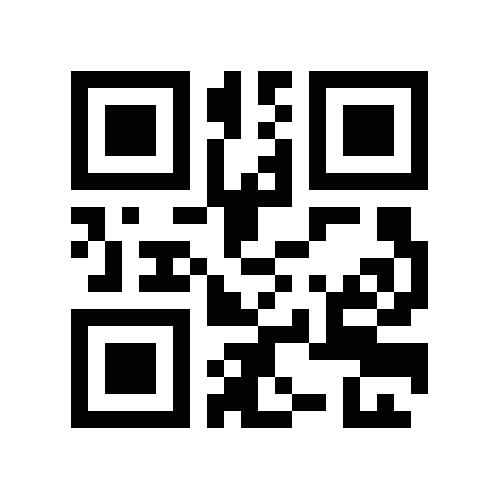
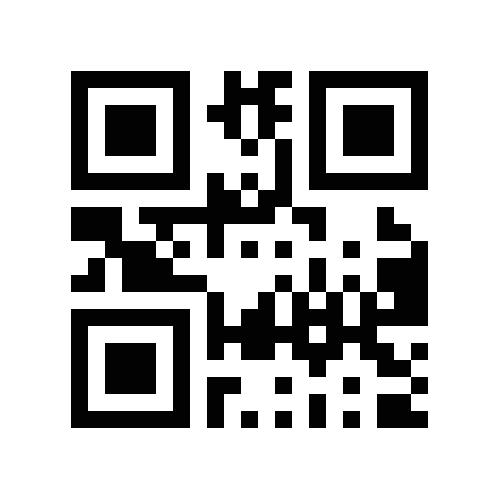
서버시간 스케쥴러 관련

diff --git a/Capstone/src/main/java/DataBase/JDBC_Repository_Server.java b/Capstone/src/main/java/DataBase/JDBC_Repository_Server.java
@@ -1,0 +1,27 @@
+package DataBase;
+
+import java.text.SimpleDateFormat;
+import java.util.Date;
+
+import org.springframework.beans.factory.annotation.Autowired;
+import org.springframework.jdbc.core.JdbcTemplate;
+import org.springframework.stereotype.Repository;
+
+@Repository
+public class JDBC_Repository_Server {
+
+	// 서버관련 쿼리 Repository
+	@Autowired
+	private JdbcTemplate jdbcTemplate;
+	
+	public void update_server_clock() {
+		
+		SimpleDateFormat format1 = new SimpleDateFormat ("yyyy-MM-dd");
+		Date time = new Date();
+		String time_pr = format1.format(time);
+		String sql = "insert into server_time_clock values('" + time_pr + "' , 'A') "
+				+ "ON DUPLICATE KEY UPDATE Today = '"+ time_pr + "'"; 
+		jdbcTemplate.execute(sql);
+		
+	}
+}

diff --git a/Capstone/src/main/java/Scheduler/Server_Time_Clock.java b/Capstone/src/main/java/Scheduler/Server_Time_Clock.java
@@ -1,0 +1,23 @@
+package Scheduler;
+
+import org.springframework.beans.factory.annotation.Autowired;
+import org.springframework.scheduling.annotation.EnableScheduling;
+import org.springframework.scheduling.annotation.Scheduled;
+import org.springframework.stereotype.Component;
+
+import DataBase.JDBC_Repository_Server;
+
+@EnableScheduling
+@Component
+public class Server_Time_Clock {
+
+	@Autowired
+	private JDBC_Repository_Server db_rep;
+	
+	@Scheduled(cron = "0 20 0 * * *")
+	public void autoUpdate() {
+		//매일 00:00:00에 호출
+		db_rep.update_server_clock();
+		System.out.println("서버 시간이 업데이트 되었습니다.\n");
+	}
+}

diff --git a/Capstone/src/main/java/Controllers/Main_Controller.java b/Capstone/src/main/java/Controllers/Main_Controller.java
@@ -42,14 +42,6 @@ public class Main_Controller {
 		HttpSession session = req.getSession();
 		String Session_User = (String) session.getAttribute("ID");
 		mav.addObject("Session_User", Session_User);
-		mav.addObject("day_data1" , "0201");
-		mav.addObject("day_data2" , "0202");
-		mav.addObject("day_data3" , "0203");
-		mav.addObject("day_data4" , "0204");
-		mav.addObject("sales_data1" , "50");
-		mav.addObject("sales_data2" , "30");
-		mav.addObject("sales_data3" , "10");
-		mav.addObject("sales_data4" , "70");
 		return mav;
 	}
 	

diff --git a/Capstone/src/main/java/Scheduler/QR_Create.java b/Capstone/src/main/java/Scheduler/QR_Create.java
@@ -55,7 +55,7 @@ public class QR_Create {
 	 *  // Component로 설정해놨기에 , 배포와 동시에 fixedDelay 시작됨.
 	 */
 	
-	@Scheduled(fixedDelay = 15000)
+	@Scheduled(fixedDelay = 30000)
 	public void Randomize_QR() throws WriterException , IOException{
 		
 		try {
